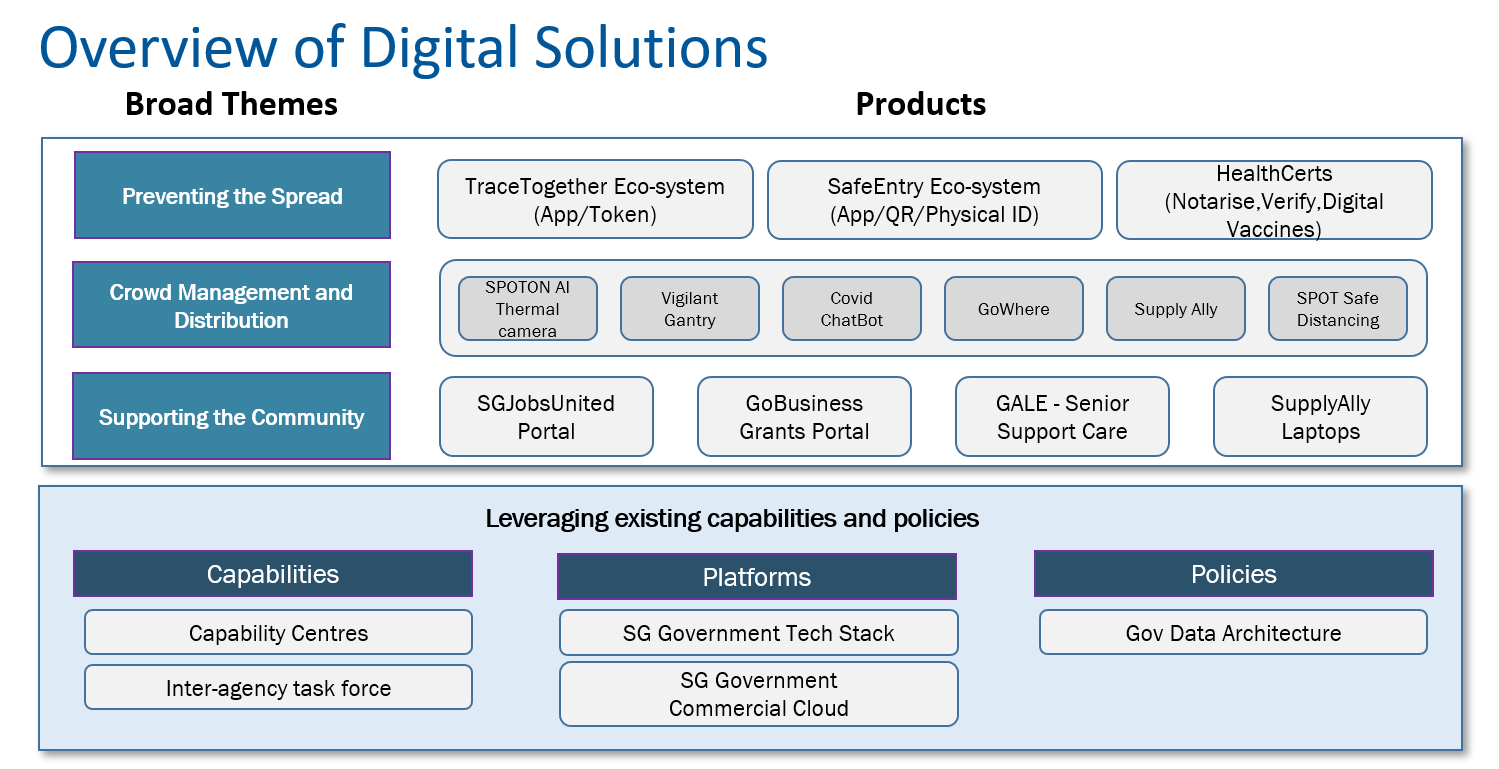
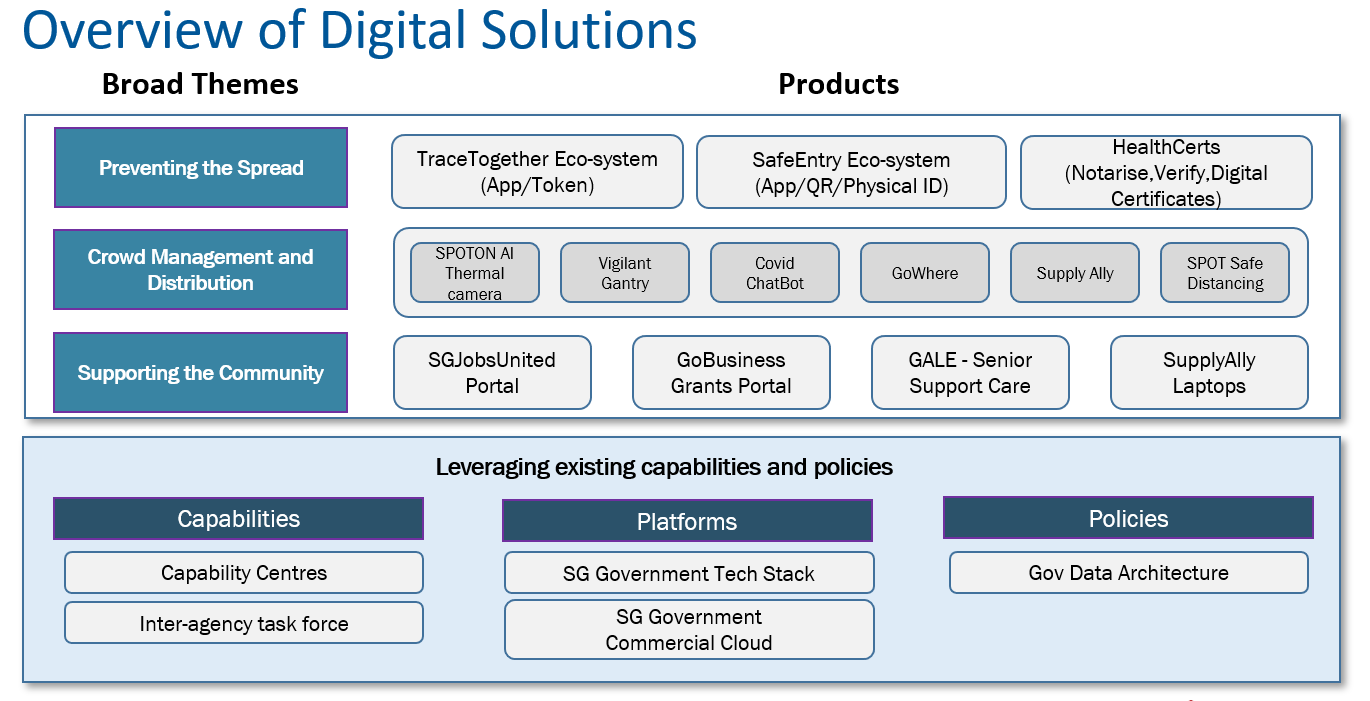
edited

Changed region(s): [[0.0, 0.0, 1.0, 0.9886]]

diff --git a/collections/_technologies/digital-solutions-to-address-covid-19/healthcerts.html b/collections/_technologies/digital-solutions-to-address-covid-19/healthcerts.html
@@ -6,7 +6,7 @@ description: >
   HealthCerts schema was developed in collaboration with Government Technology
   Agency(GovTech) and Ministry of Health(MOH), Singapore which is a set of
   digital standards and schema for issuing COVID-19
-  test results certificates that are in line with international standards and the
+  test results/vaccination certificates that are in line with international standards and the
   Singapore Government's requirements.
 ---
 <h2>HealthCerts</h2>
@@ -59,7 +59,7 @@ provide global solutions.
   authenticating and verifying digital COVID-19 digital pre-departure test(PDT)/
   vaccination certificates. HealthCerts are issued in line with international standards
   and the Singapore Government's requirements. It is interoperable with private
-  sector solutions. This certificate are also tamper-proof(data stored is immutable)
+  sector solutions. These certificates are also tamper-proof(data stored is immutable)
   and secure, protected against unauthorised access.
   </p>
   <p>
